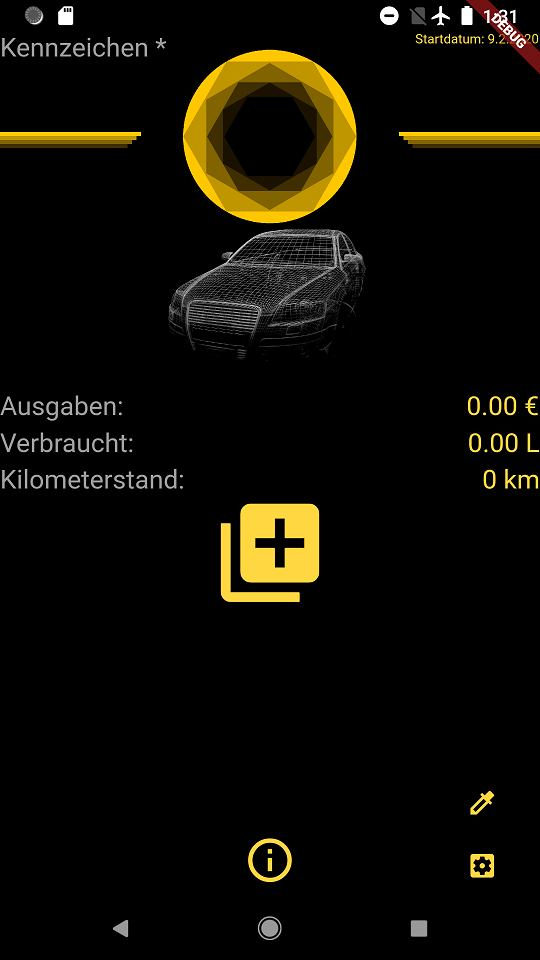
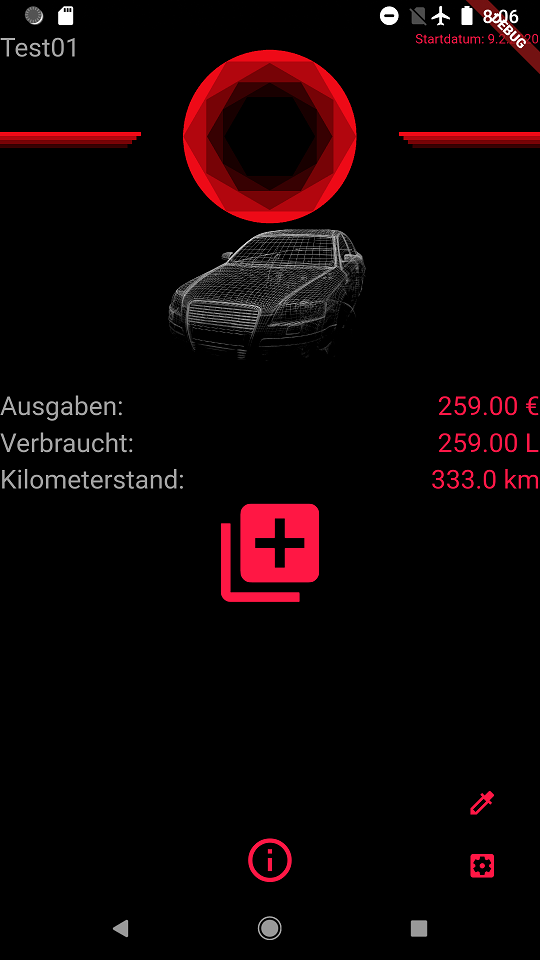
added backup functionality

diff --git a/lib/box_functions/bf_settings.dart b/lib/box_functions/bf_settings.dart
@@ -1,5 +1,14 @@
-// import 'package:flutter/material.dart';
+import 'dart:io';
+
+import 'package:balthasar/box_functions/bf_startpage.dart';
+import 'package:balthasar/obj_definition/base.dart';
+import 'package:flutter/material.dart';
 import 'package:hive/hive.dart';
+import 'package:path_provider/path_provider.dart';
+
+const resultBox = 'results';
+const settingsBox = 'settings';
+const baseBox = 'base';
 
 String getProfilename() {
   var box = Hive.box('settings');
@@ -15,4 +24,62 @@ String getProfilename() {
 void setProfilename(String name) {
   var box = Hive.box('settings');
   box.put('profilename', '$name');
+}
+
+void createBackup(BuildContext context) {
+  var box = Hive.box('$baseBox');
+  var items = box.length;
+  DateTime date = DateTime.now().toLocal();
+  String fileDate = date.year.toString()+date.month.toString()+date.day.toString();
+  String fileName = 'lilith_backup_'+fileDate+'.csv';
+  String formattedOutput = 'Lilith application backup from $date\n';
+  String hDate, hPrice, hVolume, hDistance;
+
+  for (var i = 0; i < items; i++) {
+    var buf = box.getAt(i) as Baseinfo;
+    hDate = buf.currentDate.toString();
+    hPrice = buf.price.toString();
+    hVolume = buf.volume.toString();
+    hDistance = buf.distance.toString();
+    formattedOutput += hDate+', '+hPrice+' €, '+hVolume+' L, '+hDistance+' km\n';
+  }
+
+  _backupNote(context, fileName);
+  _write(formattedOutput, fileName);
+}
+
+void _write(String data, String fileName) async {
+  final Directory directory = await getExternalStorageDirectory();
+  final File file = File('${directory.path}/$fileName');
+  await file.writeAsString(data);
+  print('Backup created with name: $fileName');
+}
+
+Future<void> _backupNote(BuildContext context, String fileName) async {
+  return showDialog<void>(
+    context: context,
+    barrierDismissible: false, // user must tap button!
+    builder: (BuildContext context) {
+      return AlertDialog(
+        title: Text('Backup done!', style: TextStyle(color: Colors.white)),
+        backgroundColor: Colors.grey[900],
+        content: SingleChildScrollView(
+          child: ListBody(
+            children: <Widget>[
+              Text('Data written to:\n$fileName', style: TextStyle(color: getTheme())),
+            ],
+          ),
+        ),
+        actions: <Widget>[
+          FlatButton(
+            color: Colors.grey[800],
+            child: Text('Ok', style: TextStyle(color: getTheme())),
+            onPressed: () {
+              Navigator.of(context).pop();
+            },
+          ),
+        ],
+      );
+    },
+  );
 }

diff --git a/lib/pages/settings.dart b/lib/pages/settings.dart
@@ -2,6 +2,7 @@ import 'package:balthasar/box_functions/bf_settings.dart';
 import 'package:balthasar/box_functions/bf_startpage.dart';
 import 'package:flutter/material.dart';
 
+
 class Settings extends StatefulWidget {
   @override
   _SettingsState createState() => _SettingsState();
@@ -9,6 +10,7 @@ class Settings extends StatefulWidget {
 
 class _SettingsState extends State<Settings> {
   String profile = getProfilename();
+  
   @override
   Widget build(BuildContext context) {
     return Stack(
@@ -32,7 +34,9 @@ class _SettingsState extends State<Settings> {
                     child: TextField(
                       style: TextStyle(color: Colors.white),
                       obscureText: false,
-                      onSubmitted: (String prf) {setProfilename(prf);},
+                      onSubmitted: (String prf) {
+                        setProfilename(prf);
+                      },
                       decoration: InputDecoration(
                         fillColor: Colors.white,
                         labelStyle: TextStyle(color: Colors.white),
@@ -41,7 +45,9 @@ class _SettingsState extends State<Settings> {
                       ),
                     )),
                 FlatButton.icon(
-                  onPressed: () { Navigator.pushNamed(context, '/dblist'); },
+                  onPressed: () {
+                    Navigator.pushNamed(context, '/dblist');
+                  },
                   color: Colors.grey[900],
                   icon: Icon(
                     Icons.menu,
@@ -51,7 +57,23 @@ class _SettingsState extends State<Settings> {
                     'Einträge (Database)',
                     style: TextStyle(color: getTheme()),
                   ),
-                )
+                ),
+                SizedBox(height: 20),
+                FlatButton.icon(
+                  onPressed: (){
+                    print('Calling Backup');
+                    createBackup(context);
+                  },
+                  color: Colors.grey[900],
+                  icon: Icon(
+                    Icons.save_alt,
+                    color: getTheme(),
+                  ),
+                  label: Text(
+                    'Backup',
+                    style: TextStyle(color: getTheme()),
+                  ),
+                ),
               ],
             ),
           ),

diff --git a/README.md b/README.md
@@ -24,21 +24,29 @@ If you start the app everything is organized in buttons that are "language agnos
 
 ## Feature TODOs
 
-- backup of HiveDB
+- ~~backup of HiveDB~~ done but only for Android (iOS does not get the "getExternalStorageDirectory() from path_provider)
 - add charts for monthly statistics
 - add maintenance widgets (shout out to: Riccardo :D)
 - optional: add some more languages that can be set in the settings menu
 
-## Preview (amber)
+## Preview (red)
 
-- Main screen; color amber
+- Main screen
 
 ![Main Screen](screenshots/main-screen.png)
 
- - Edit screen (add entry); color amber
+ - Edit screen (add entry)
 
-![Edit Screen](screenshots/edit-screen.png)
+![Edit Screen](screenshots/entry-screen.png)
 
-- Settings screen; color amber
+- Settings screen
 
 ![Settings Screen](screenshots/settings-screen.png)
+
+ - Info screen
+
+ ![Info Screen](screenshots/info-screen.png)
+
+ - Database edit screen
+
+ ![DB edit Screen](screenshots/edit-db-screen.png)
